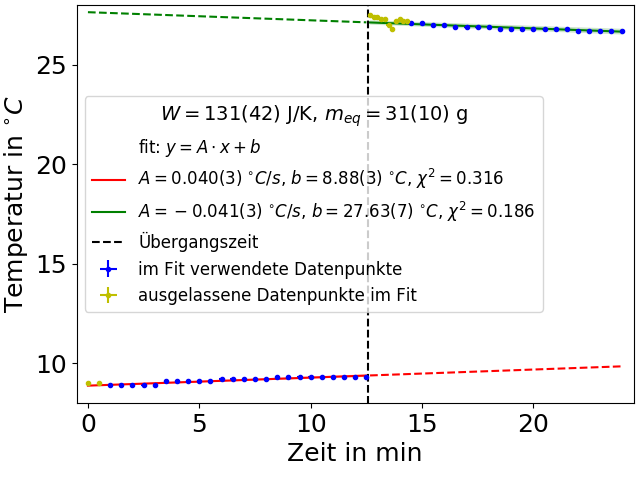
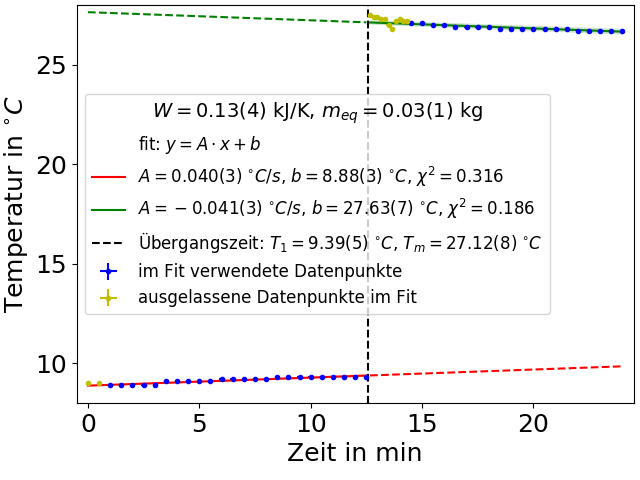
plots nochmal korrigiert

diff --git a/Versuch7/scripts/specific_rotation.py b/Versuch7/scripts/specific_rotation.py
@@ -1,0 +1,53 @@
+import numpy as np
+from scipy.optimize import curve_fit
+from uncertainties import ufloat
+import uncertainties.unumpy as unp
+import matplotlib.pyplot as plt
+import sys
+sys.path.insert(0,"../../scripts")
+import fit_functions as ft
+from myPlot import ShorthandFormatter
+
+lambda_literature = [656,589,509,436,373]
+specific_rotation_literature = [17.3, 21.7, 29.7, 41.5, 58.9]
+#lambda_literature = [656,589,509]#,436,373]
+#specific_rotation_literature = [17.3, 21.7, 29.7]#, 41.5, 58.9]
+lambda_experiment = [690,650,590,530]
+specific_rotation_experiment = [18, 19, 22, 25]
+specific_rotation_experiment_err = [1 for i in range(len(specific_rotation_experiment))]
+
+f_l = ft.quartic
+f_e = ft.linear2
+popt_literature, cov_literature = curve_fit(f_l, lambda_literature, specific_rotation_literature)
+popt_experiment, cov_experiment = curve_fit(f_e, lambda_experiment, specific_rotation_experiment, sigma = specific_rotation_experiment_err, absolute_sigma = True)
+
+params_l = unp.uarray(popt_literature, np.sqrt(np.array([cov_literature[i][i] for i in range(len(cov_literature))])))
+params_e = unp.uarray(popt_experiment, np.sqrt(np.array([cov_experiment[i][i] for i in range(len(cov_experiment))])))
+fmtr = ShorthandFormatter()
+params_l_str = [fmtr.format('{0:.1u}', params_l[i]) for i in range(len(params_l))]
+params_e_str = [fmtr.format('{0:.1u}', params_e[i]) for i in range(len(params_e))]
+x = np.linspace(350, 750, 1000)
+
+fig, ax = plt.subplots()
+
+ax.plot(x, f_l(x, *popt_literature), 'r-', label = 'fit on literature values')
+#ax.plot(x, f_l(x, *popt_literature), 'y-', label = r'literature fit: $A={}\, \frac{{deg}}{{\mu m^2}}$, $b={}\, \frac{{deg}}{{mm}}$'.format(params_l_str[0], params_l_str[1]))
+#ax.plot(x, f_e(x, *popt_experiment), 'r-', label = r'experimental fit: $A={}\, \frac{{deg}}{{\mu m^2}}$, $b={}\, \frac{{deg}}{{mm}}$'.format(params_e_str[0], params_e_str[1]))
+ax.plot(lambda_literature, specific_rotation_literature, 'go', label = 'Literature Values')
+ax.errorbar(lambda_experiment, specific_rotation_experiment, yerr = specific_rotation_experiment_err, fmt = 'bo', label = 'Experimental values', capsize = 2)
+
+ax.set_xlabel('Wavelength in nm', fontsize = 18)
+ax.set_ylabel('Specific rotation in deg/mm', fontsize = 18)
+#ax.set_xbound(490, 710)
+#ax.set_ybound(11, 49)
+ax.set_xbound(350, 710)
+ax.set_ybound(14, 71)
+
+legend = ax.legend(fontsize = 18)#, title = r'Linear fit: $y=A\cdot x + b$')
+#legend.get_title().set_fontsize('14')
+
+ax.tick_params(labelsize = 18)
+plt.tight_layout()
+plt.subplots_adjust(left = 0.12, right = 0.99, bottom = 0.135, top = 0.99)
+
+plt.show()

diff --git a/Versuch9/scripts/wasserwert.py b/Versuch9/scripts/wasserwert.py
@@ -52,13 +52,13 @@ def linear(B, x):
 
 def fit_odr(f,x,y, xs, ys, beta_0):
     #ODR fitting
-    print ('\n')
+    #print ('\n')
     model = odrpack.Model(f)
     data = odrpack.RealData(x, y, sx=xs, sy=ys)
     myodr = odrpack.ODR(data, model, beta0=beta_0)
     output = myodr.run()
     params_n, params_s = output.beta, output.sd_beta
-    output.pprint()
+    #output.pprint()
     res_var = output.res_var
     return unp.uarray(params_n, params_s), res_var
 
@@ -98,6 +98,12 @@ def plot_curve():
     w_str = fmtr.format('{0:.1u}', w/1000) #convert in kJ/K
     m_eq_str = fmtr.format('{0:.1u}', m_eq/1000) #convert in kg
 
+    #calculates T1 and Tm
+    t1 = linear(params_before, t_transition)
+    tm = linear(params_after, t_transition)
+    t1_str = fmtr.format('{0:.1u}', t1)
+    tm_str = fmtr.format('{0:.1u}', tm)
+
     #setting up plot
     fig, ax = plt.subplots()
     ax.errorbar(time[exclude_first:i], temp[exclude_first:i], time_err[exclude_first:i], temp_err[exclude_first:i], 'b.', label = 'im Fit verwendete Datenpunkte')
@@ -110,7 +116,7 @@ def plot_curve():
     ax.plot(time[i:], linear(unp.nominal_values(params_before), time[i:]), 'r--')
     ax.plot(x_fit_after, y_fit_after, 'g-', label = r'$A={}\, ^\circ\! C/s$, $b={}\, ^\circ\! C$, $\chi^2={:1.3f}$'.format(params_after_str[0],params_after_str[1], res_after))
     ax.plot(time[:i], linear(unp.nominal_values(params_after), time[:i]), 'g--')
-    ax.plot([t_transition,t_transition], [0,30], 'k--', label = u'Übergangszeit')
+    ax.plot([t_transition,t_transition], [0,30], 'k--', label = u'Übergangszeit: $T_1 = {}\, ^\circ\! C$, $T_m = {}\, ^\circ\! C$'.format(t1_str, tm_str))
 
     ax.fill_between(x_fit_before, y_fit_before_down, y_fit_before_up, facecolor = 'r', alpha = 0.2)
     ax.fill_between(x_fit_after, y_fit_after_down, y_fit_after_up, facecolor = 'g', alpha = 0.2)

diff --git a/Versuch9/scripts/dampf.py b/Versuch9/scripts/dampf.py
@@ -141,6 +141,12 @@ def plot_curve():
     l = calculate_l(params_before, params_after, t_transition)
     l_str = fmtr.format('{0:.1u}', l/1000) #convert from kJ/kg to MJ/kg
 
+    #calculates T1 and Tm
+    t1 = linear(params_before, t_transition)
+    tm = linear(params_after, t_transition)
+    t1_str = fmtr.format('{0:.1u}', t1)
+    tm_str = fmtr.format('{0:.1u}', tm)
+
     #setting up plot
     fig, ax = plt.subplots()
     ax.errorbar(time[exclude_first:i], temp[exclude_first:i], time_err[exclude_first:i], temp_err[exclude_first:i], 'b.', label = 'im Fit verwendete Datenpunkte')
@@ -153,8 +159,9 @@ def plot_curve():
     ax.plot(time[i:], linear(unp.nominal_values(params_before), time[i:]), 'r--')
     ax.plot(x_fit_after, y_fit_after, 'g-', label = r'$A={}\, ^\circ\! C/s$, $b={}\, ^\circ\! C$, $\chi^2={:1.3f}$'.format(params_after_str[0],params_after_str[1], res_after))
     ax.plot(time[:-last_values], linear(unp.nominal_values(params_after), time[:-last_values]), 'g--')
-    ax.plot([t_transition,t_transition], [10,50], 'k--', label = u'Übergangszeit' + r'$\:={:.1f}(3)$ min'.format(t_transition))
-
+    #ax.plot([t_transition,t_transition], [10,50], 'k--', label = u'Übergangszeit' + r'$\:={:.1f}(3)$ min'.format(t_transition))
+    ax.plot([t_transition,t_transition], [10,50], 'k--', label = u'Übergangszeit: $T_1 = {}\, ^\circ\! C$, $T_m = {}\, ^\circ\! C$'.format(t1_str, tm_str))
+    
     ax.fill_between(x_fit_before, y_fit_before_down, y_fit_before_up, facecolor = 'r', alpha = 0.2)
     ax.fill_between(x_fit_after, y_fit_after_down, y_fit_after_up, facecolor = 'g', alpha = 0.2)
 

diff --git a/Versuch9/scripts/eis.py b/Versuch9/scripts/eis.py
@@ -155,6 +155,12 @@ def plot_curve():
     l = calculate_l(params_before, params_after, t_transition)
     l_str = fmtr.format('{0:.1u}', l/1000) #convert from kJ/kg to MJ/kg
 
+    #calculates T1 and Tm
+    t1 = linear(params_before, t_transition)
+    tm = linear(params_after, t_transition)
+    t1_str = fmtr.format('{0:.1u}', t1)
+    tm_str = fmtr.format('{0:.1u}', tm)
+
     #setting up plot
     fig, ax = plt.subplots()
     ax.errorbar(time[exclude_first:i], temp[exclude_first:i], time_err[exclude_first:i], temp_err[exclude_first:i], 'b.', label = 'im Fit verwendete Datenpunkte')
@@ -167,8 +173,9 @@ def plot_curve():
     ax.plot(time[i:], linear(unp.nominal_values(params_before), time[i:]), 'r--')
     ax.plot(x_fit_after, y_fit_after, 'g-', label = r'$A={}\, ^\circ\! C/s$, $b={}\, ^\circ\! C$, $\chi^2={:1.3f}$'.format(params_after_str[0],params_after_str[1], res_after))
     ax.plot(time[:-last_values], linear(unp.nominal_values(params_after), time[:-last_values]), 'g--')
-    ax.plot([t_transition,t_transition], [10,50], 'k--', label = u'Übergangszeit' + r'$\:={:.1f}(3)$ min'.format(t_transition))
-
+    #ax.plot([t_transition,t_transition], [10,50], 'k--', label = u'Übergangszeit' + r'$\:={:.1f}(3)$ min'.format(t_transition))
+    ax.plot([t_transition,t_transition], [10,50], 'k--', label = u'Übergangszeit: $T_1 = {}\, ^\circ\! C$, $T_m = {}\, ^\circ\! C$'.format(t1_str, tm_str))
+    
     ax.fill_between(x_fit_before, y_fit_before_down, y_fit_before_up, facecolor = 'r', alpha = 0.2)
     ax.fill_between(x_fit_after, y_fit_after_down, y_fit_after_up, facecolor = 'g', alpha = 0.2)
 
